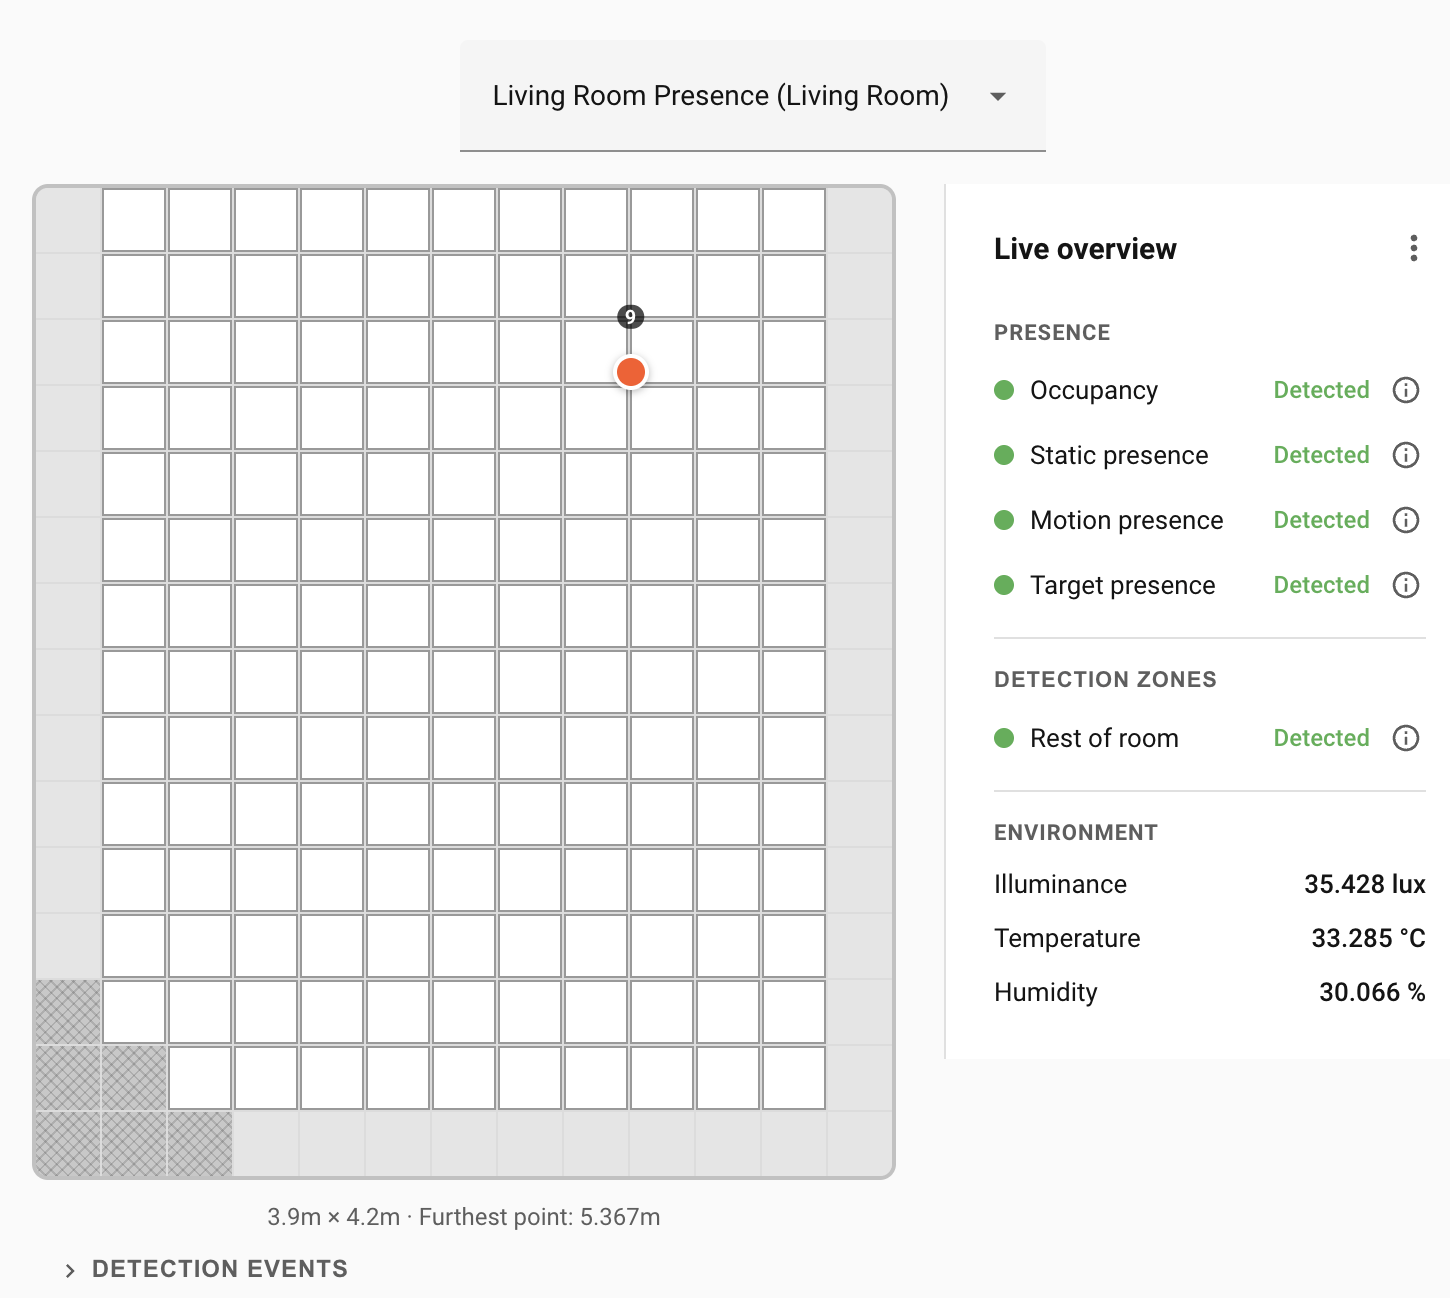
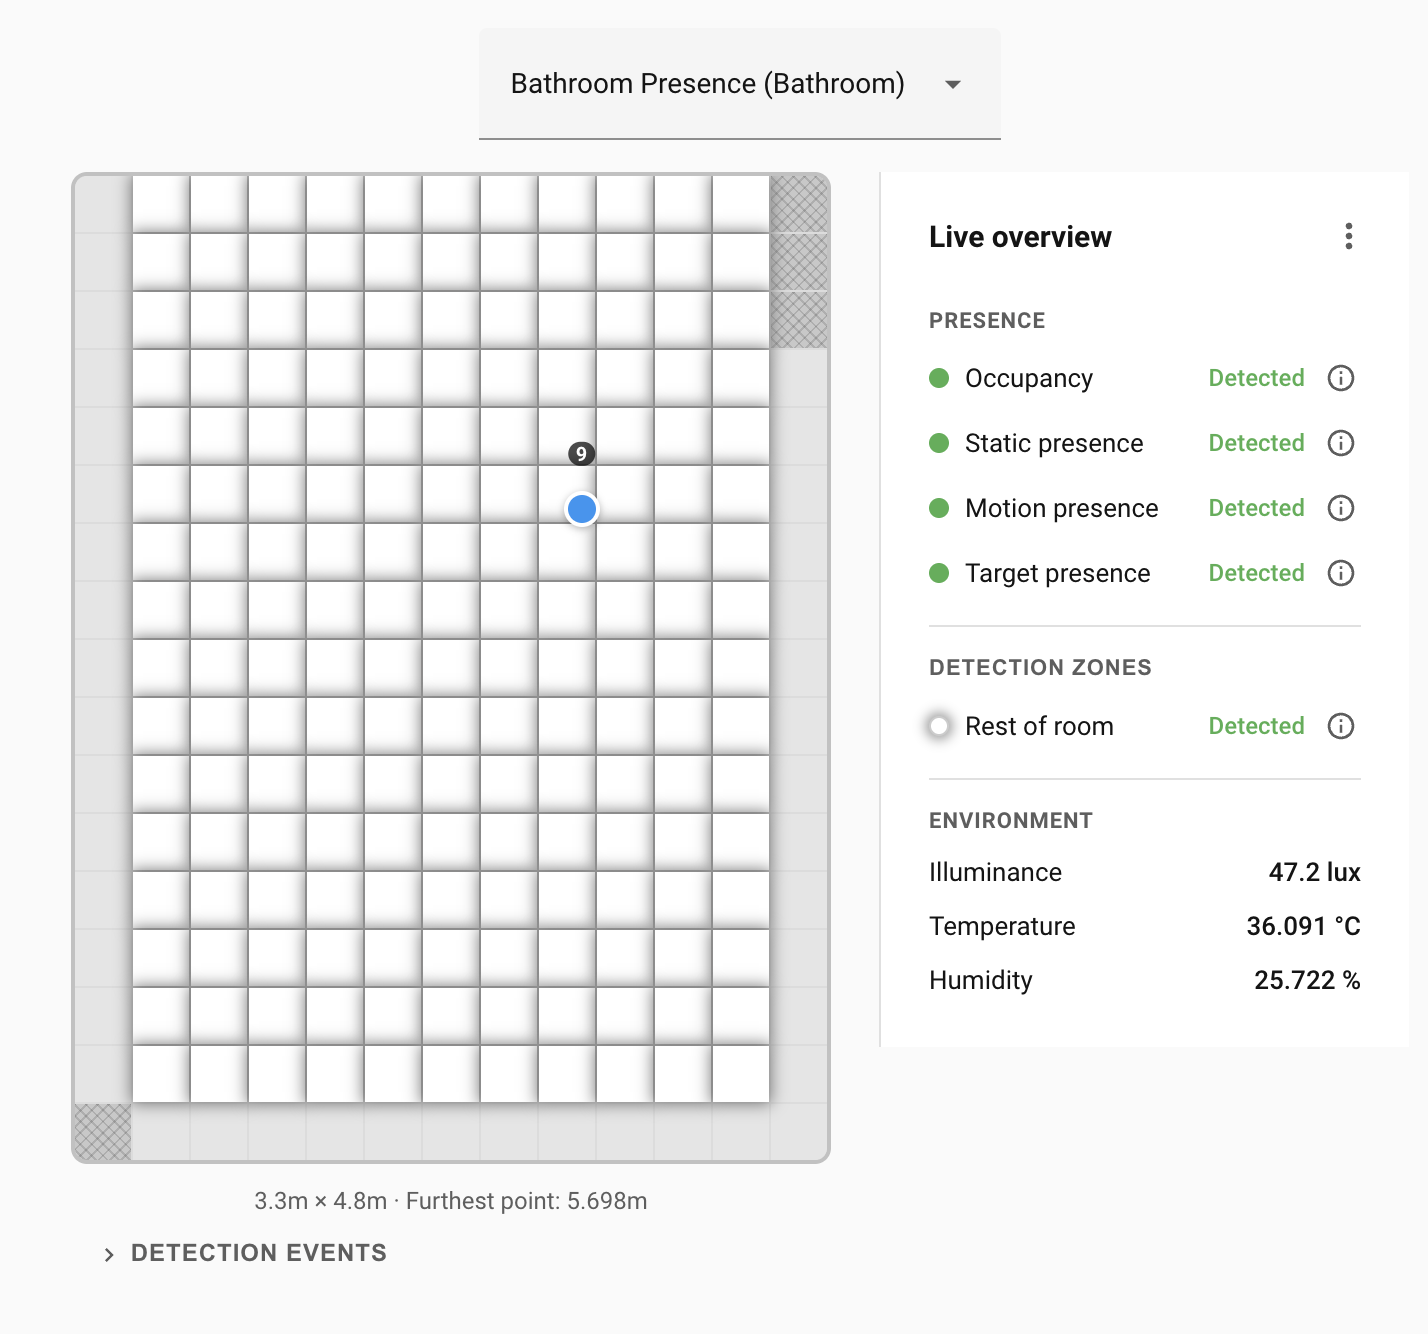
docs: add screenshots and rewrite live overview + detection zones
- Replace remaining screenshot placeholders with real images
  (live overview, detection zones editor, zone types, custom settings)
- Rewrite live-overview.md: sidebar section with presence sensors,
  zone glow, environmental sensors; remove duplicate entity listing
- Rewrite detection-zones.md: explain zone presence algorithm,
  handoff behaviour, per-entity enablement; add column/boundary note
- Update calibrated.png and overview.png with zone-colour screenshots
- Remove flasher progress placeholder from flashing-firmware.md

diff --git a/docs/user-guide/detection-zones.md b/docs/user-guide/detection-zones.md
@@ -9,8 +9,7 @@ Open the Device Configuration tab and switch the sidebar to the **Detection zone
 - A permanent **Room** entry at the top — this is the zone 0 fallback (see below).
 - A list of your named zones. You can have up to 7. The **Add zone** button is disabled once all seven slots are used.
 
-!!! example "Screenshot placeholder"
-    **Zones sidebar with the Room entry at the top and the Add zone button, before any named zones exist.** `zones/empty-list.png`
+![Detection zones editor with the Room entry at the top and the Add zone button, before any named zones exist.](../images/detection-zones/empty-list.png "Detection zones editor with the Room entry at the top and the Add zone button, before any named zones exist.")
 
 ## The Room zone (zone 0)
 
@@ -18,10 +17,13 @@ The first entry in the list, labelled **Room**, is zone 0 — the "rest of room"
 
 Painting the Room zone is different from painting a named zone: you're editing the room **boundary** rather than a zone interior.
 
-- Click a cell **outside** the current room → the cell is added to the room.
-- Click a cell **inside** the current room → the cell is removed from the room (it's no longer considered part of your room at all).
+- Click a grey cell **outside** the current room → the cell is added to the room.
+- Click a white cell **inside** the current room → the cell is removed from the room (it's no longer considered part of your room at all).
 
 Keep the room boundary tight to your real walls. Cells outside the room are ignored by the zone engine; overlays and named zones can't be painted on them either.
+
+!!! note 
+    You can mark cells as **outside** cells even if they are completely surrounded by **inside** cells. Imagine a column in the middle of the room. It is effectively outside the room, even though it is surrounded by the room.
 
 ## Creating and painting a named zone
 
@@ -31,11 +33,7 @@ Once calibration is done and the room boundary looks right, add your first named
 2. On the grid, click-and-drag to paint cells into the zone. The action for the whole drag — paint or erase — is decided by the cell you first press on: if it's already part of the zone, the stroke erases; otherwise the stroke paints.
 3. Release the mouse to commit the stroke.
 
-!!! tip
-    Short strokes are your friend. Each drag is one paint-or-erase decision; if you try to do too much in one stroke and pass through both painted and unpainted cells, you'll have to undo and retry with a shorter stroke.
-
-!!! example "Screenshot placeholder"
-    **Mid-drag painting a zone — cells being added to a new "Sofa" zone.** `zones/painting.png`
+![Mid-drag painting a zone — cells being added to a new "Wash basins" zone.](../images/detection-zones/painting.png "Mid-drag painting a zone — cells being added to a new "Wash basins" zone.")
 
 ## Renaming, recolouring, deleting
 
@@ -45,7 +43,16 @@ Once calibration is done and the room boundary looks right, add your first named
 
 ## Per-zone settings
 
+The LD2450 target tracker can lose a target when there is no movement for a few seconds, such as happens when the target is asleep in bed. To avoid zone presence sensors flapping states every few seconds, you can specify the type of presence you expect for a particular zone. For instance, you would expect:
+
+- a passage to be quick entry and exit.
+- a bed to have long term presence with little movement. 
+- targets to appear out of nowhere in a doorway.
+- targets to reach a sofa zone by transiting an adjacent zone.
+
 Each zone has a **type**, which picks sensible defaults for four behaviour thresholds. For most rooms, one of the built-in types works without further tuning.
+
+![Zone types.](../images/detection-zones/zone-types.png "Zone types.")
 
 - **Default** — balanced defaults. Use for living-room zones, kitchen zones, generic "somebody's in this area" detection.
 - **Bed** — long presence timeout for bedroom monitoring. Designed for someone lying still in bed for extended periods (10-minute presence timeout, slower trigger).
@@ -53,27 +60,32 @@ Each zone has a **type**, which picks sensible defaults for four behaviour thres
 - **Transit** — fast fall-off. Use for hallways and doorways where you want presence to drop quickly after someone has walked through, so it doesn't keep a light on forever.
 - **Custom** — expose the four thresholds below for direct tuning.
 
-The four thresholds (editable in Custom mode):
+![The four settings exposed by the Custom zone type.](../images/detection-zones/custom-settings.png "The four settings exposed by the Custom zone type.")
 
-- **Trigger** — how quickly a target inside the zone counts as "present". Lower = faster trigger.
-- **Renew** — how quickly the presence counter refreshes while the zone stays occupied.
-- **Presence timeout** — how long after the last target leaves before the zone's presence binary sensor drops to off.
-- **Handoff timeout** — the window during which a target disappearing from this zone and reappearing in a neighbouring zone is treated as a handoff, not a new event. Longer = more tolerant of dropouts during handoff, shorter = faster distinction between a handoff and a re-entry.
+## Zone presence and custom settings
 
-!!! example "Screenshot placeholder"
-    **A zone selected with its type dropdown and custom threshold controls visible.** `zones/zone-settings.png`
+The zone presence algorithm works as follows:
+
+- A zone entity starts with state **clear**.
+- If a target appears in a zone with a *signal strength* at least equal to the **Trigger** threshold, then the zone changes to **detected**.
+- If the target disappears from the zone (without being handed off - see below), then the zone moves to an internal **pending** state. The zone entity continues to report **detected**.
+- If a target appears in the zone with a signal strength at least equal to the lower **Renew** threshold, then the zone clears the internal **pending** state and the entity continues to report **detected**.
+- Alternatively, if a target doesn't reappear within **Presence timeout** seconds, then the zone entity switches to the **clear** state.
+
+### Handoff
+
+If a target moves to an adjacent zone (instead of just disappearing) then the zone switches to the internal **pending** state, but then it only waits for **Handoff timeout** seconds before it switches to the **clear** state. In other words, the target has been *handed off* to an adjacent zone.
+
+An exception to this is entrances and exits, where you expect targets to appear out of nowhere. These areas are marked with the **entrance/exit overlay** (see [Overlays](overlays.md)), which causes them to always use the **Handoff timeout** instead of the **Presence timeout**.
 
 ## Entities exposed in Home Assistant
 
-Zones don't create entities on their own — the firmware publishes every possible zone entity up front, and the integration enables or hides them based on your settings. Two **device-level** toggles control what's exposed:
+Each configured zone supports two entities:
 
-- **Zone Presence** — if enabled, Home Assistant sees a `binary_sensor.<device>_zone_N_presence` entity for every active zone slot. The integration renames these to follow the zone: a named zone becomes `Zone <name>` (e.g. `Zone Sofa`), and Zone 0 becomes `Zone Rest of Room`. Zone 0's presence sensor is `on` whenever the sensor sees a target anywhere in the room that isn't inside one of your named zones.
-- **Zone Target Count** — if enabled, Home Assistant sees a `sensor.<device>_zone_N_target_count` entity per active zone slot, with the same `Zone <name>` / `Zone Rest of Room` display-name treatment. Reports the number of tracked targets currently inside that zone.
+- **Zone Presence** — a `binary_sensor.<device>_zone_N_presence` entity. The integration renames these to follow the zone: a named zone becomes `Zone <name>` (e.g. `Zone Sofa`), and Zone 0 becomes `Zone Rest of Room`. Zone 0's presence sensor is `on` whenever the sensor sees a target anywhere in the room that isn't inside one of your named zones.
+- **Zone Target Count** — a `sensor.<device>_zone_N_target_count` entity, with the same `Zone <name>` / `Zone Rest of Room` display-name treatment. Reports the number of tracked targets currently inside that zone.
 
-Both toggles are device-wide, not per-zone. Turning **Zone Presence** on gives you presence sensors for every zone on the device at once; turning it off hides all of them. If you only care about three of your seven zones, you still get all seven presence sensors — just leave them disabled in Home Assistant's entity registry for the ones you don't need.
-
-!!! note
-    The device-level toggles live in the settings area of the panel rather than on individual zones. If you've just created a new zone and its entities aren't appearing in Home Assistant, double-check that Zone Presence (and/or Zone Target Count) is turned on at the device level.
+**Zone Presence** entities are enabled by default, but **Zone Target Count** entities are disabled by default. This can be configured in the [Entities Settings](settings/entities.md).
 
 ## Troubleshooting
 
@@ -81,7 +93,6 @@ Both toggles are device-wide, not per-zone. Turning **Zone Presence** on gives y
 | --- | --- | --- |
 | New zone created in the panel but no `zone_<N>_presence` entity visible in Home Assistant | The device-level **Zone Presence** toggle is off — the entity is disabled in the HA entity registry | Enable **Zone Presence** on the device page. If you want to see the entity in "disabled" state meanwhile, set Home Assistant's entity-registry filter to "Include disabled entities". |
 | Renamed a zone but the HA entity display name still says "Zone N Presence" | Integration hasn't refreshed the entity registry entry yet | Reload the **Everything Presence Pro Grid** integration from Settings → Devices & Services, or reboot the device. |
-| Zone never fires even with obvious presence | Zone has no cells painted, or cells are outside the room boundary | Reopen the zone in the editor and verify cells are painted inside the room. Cells outside the room boundary don't get tracked. |
 | `Zone Rest of Room` is always `on`, even when nobody's in the room | An interference source is inside the room but outside any named zone | Paint an Interference overlay on the problem cells. See [Overlays](overlays.md). |
 | Zone flaps on and off on someone who isn't moving much | Zone type is "Default" — presence timeout is short | Change the zone's type to **Seating** (sofa, chair), **Bed** (bedroom), or **Custom** with a longer Presence timeout. |
 

diff --git a/docs/user-guide/live-overview.md b/docs/user-guide/live-overview.md
@@ -1,82 +1,57 @@
 # Live overview
 
-The live overview is the default content of the Device Configuration tab when you're not in an editor mode. It shows the calibrated grid with your zones, overlays, and furniture in place, and updates live as the sensor tracks targets. This page covers how to read it.
+The live overview is the home page of the Device Configuration tab. It shows the calibrated grid with your zones, overlays, and furniture in place, and updates live as the sensor tracks targets. This page covers how to read it.
 
 ## The grid
 
 The grid is a top-down view of your room after calibration. Each cell is the unit of detection; the zone engine decides presence and target counts in terms of cells.
 
-- Zones are drawn as coloured regions using the colour you picked in the zones editor.
+- White cells indicate cells inside the room that don't belong to any zone, i.e. "Rest of room".
+- Grey cells indicate cells outside the room.
+- Grey cells with cross hatching indicate cells which are outside the FoV (field of view) of the target tracking sensor.
+- Detection zones are drawn as coloured regions using the colour you picked in the zones editor.
 - Overlays show as hatched patterns: Entry/Exit cells use a grey 45° diagonal stripe; Interference cells use a single red -45° diagonal stripe; Suppress cells use red cross-hatching (both diagonals).
 - Furniture sits on top of zones and overlays as a visual layer.
 - Below the grid, the panel shows the room's width × depth plus the distance to the furthest point the sensor can still track (useful for sanity-checking that important corners are inside the LD2450's 6-metre tracking range).
 
-!!! example "Screenshot placeholder"
-    **Live overview showing a dressed room with multiple zones, a couple of overlays, and two live target markers.** `live-overview/populated.png`
+![Live overview showing a room with multiple zones, overlays, furniture icons, and a live target marker.](../images/live-overview/overview.png "Live overview showing a room with multiple zones, overlays, furniture icons, and a live target marker.")
 
 ## Target markers
 
 The LD2450 tracks up to 3 targets at a time. Each is drawn as a dot on the grid:
 
 - **Per-target colours** — each tracked target slot has its own colour from a fixed palette, so you can tell separate targets apart at a glance. The colour identifies the slot, not the movement state; it stays the same as the target moves around.
-- **Optional signal label** — a target may show its signal-strength value as a small label next to the dot.
+- **Signal label** — a target shows its signal-strength value (1..9) as a small label above the dot.
 
-Targets move smoothly because the firmware applies a rolling-median filter before the perspective transform. Jitter you occasionally see is real radar noise, not a bug.
+## Side bar
 
-## Zone occupancy glow
+On the right-hand side bar, you will see live data being fed directly from the sensor. Not all of the corresponding entities are enabled in ESPHome, but they can be enabled in the [**Entity Settings**](settings/entities.md) section.
 
-When a zone is occupied, its colour brightens and gets a subtle glow. This is the most direct visual confirmation that automations are about to fire for that zone — if the glow is on, the corresponding `binary_sensor.<device>_zone_N_presence` entity in Home Assistant is `on`.
+### Presence sensors
 
-A good sanity-check workflow when setting up automations:
+- **Occupancy** — combined presence signal. This is the one you'll usually automate against.
+- **Motion Presence** — the PIR (passive infrared) sensor as a binary sensor. 
+- **Static Presence** — the SEN0609 static-presence sensor. 
+- **Target Presence** - the LD2450 target tracking presence.
 
-1. Walk into the zone.
-2. Look at the live overview — does the zone glow?
-3. Check Home Assistant — is the entity on?
+By default, only the Occupancy entity is enabled under ESPHome.
 
-If step 2 happens but step 3 doesn't, it's usually the Zone Presence device toggle that's off. See [Detection zones](detection-zones.md#entities-exposed-in-home-assistant).
+### Detection zones occupancy glow
 
-## Environmental sensors
+When a zone is occupied, its colour brightens and gets a subtle glow, and the zone is marked as **Detected** in the side bar. This is the most direct visual confirmation that automations are about to fire for that zone — if the glow is on, the corresponding `binary_sensor.<device>_zone_N_presence` entity in Home Assistant is `on`.
 
-The live sidebar next to the grid has an **Environment** section. It's not overlaid on the grid — it's a side panel with live readings from the device's environmental sensors:
+Entities for all configured zones are enabled by default under ESPHome.
 
-- **Illuminance** (lux)
+### Environmental sensors
+
+In the  **Environment** section, you can see the four environmental sensors:
+
+- **Illuminance** (lux) 
 - **Temperature** (°C)
 - **Humidity** (%)
-- **CO2** (ppm) — only shown if the CO2 entity has been enabled on the device in Home Assistant
+- **CO2** (ppm) — the CO2 sensor is an optional extra and may not be installed on your device. You will only see the CO2 reading on the live overview if the chip is present and producing readings.
 
-These come from the firmware's environmental entities; the live overview just shows them in one place. If a value is missing, the corresponding entity is disabled on the device page.
-
-!!! example "Screenshot placeholder"
-    **Close-up of the Environment section in the live sidebar.** `live-overview/environment-sidebar.png`
-
-## What you get by default
-
-Once the device is connected and calibrated, Home Assistant has these entities ready. Some are enabled out of the box; others light up as you configure zones or flip the relevant device toggle.
-
-**Diagnostic**
-
-- **Firmware Version** — the firmware build currently running on the device.
-- **Firmware Update** — the ESPHome update entity that handles OTA upgrades.
-
-**Environmental**
-
-- **Illuminance** (lux), **Temperature** (°C), **Humidity** (%) — enabled by default.
-- **CO2** (ppm) — only if the CO2 module is fitted. Disabled by default.
-
-**Presence**
-
-- **Occupancy** — combined presence signal. Enabled by default. This is the one you'll usually automate against.
-- **Motion Presence** — the PIR (passive infrared) sensor as a binary sensor. Disabled by default.
-- **Static Presence** — the SEN0609 static-presence sensor. Disabled by default.
-
-**Zones**
-
-- **Zone 0 Presence** through **Zone 7 Presence** — one per zone.
-- **Zone 0 Target Count** through **Zone 7 Target Count** — one per zone.
-
-Zone pairs stay disabled until you paint the zone and enable its toggles in settings. **Zone 0** is the "rest of room" fallback — any target outside a named zone.
-
-See [Settings → Entities](settings/entities.md) for the full list and how to enable or rename individual entities.
+The **Illuminance**, **Temperature**, and **Humidity** entities are enabled by default. The **CO2** entity (and the related **Calibrate CO2 button**) is disabled by default.
 
 ## Connection and firmware-status banners
 
@@ -91,9 +66,7 @@ When something's wrong, the live grid is replaced by a banner rather than being 
 | --- | --- | --- |
 | Grid is blank or shows no sensor data | Device is offline | Check **Settings → Devices & Services → ESPHome** — the device should be listed and marked online. |
 | Targets jump around or drift outside walls | Calibration is off | Re-run the calibration wizard. See [Calibration](calibration.md). |
-| Zone colour never highlights, even when someone's in the zone | Zone Presence toggle is off at the device level, or the zone has zero cells painted | Enable **Zone Presence** on the device page; check the zone has cells in the [Detection zones](detection-zones.md) editor. |
 | Target stuck on a fixed cell with nobody there | Interference source at that cell (fan, curtain, reflective surface) | Add an Interference overlay at that cell. If it's still problematic, escalate to Suppress. See [Overlays](overlays.md). |
-| Environmental sensor values missing from the sidebar | Corresponding entity is disabled on the device page | Enable the entity in Home Assistant: go to the device page → entities → enable the missing one. CO2 in particular is disabled by default. |
 
 See also: the [central Troubleshooting](troubleshooting.md) page for conceptual FAQ and how to open a GitHub issue.
 

diff --git a/docs/user-guide/flashing-firmware.md b/docs/user-guide/flashing-firmware.md
@@ -31,9 +31,6 @@ This page covers flashing Everything Presence Pro Grid firmware onto your device
 !!! warning
     If the browser shows no ports when you click Connect, the cable is the most common cause. Swap for a known-good data cable before troubleshooting the device.
 
-!!! example "Screenshot placeholder"
-    **Flasher mid-flash — progress indicator showing "Flashing firmware…".** `firmware/flasher-progress.png`
-
 ## Add the device to ESPHome
 
 The Wi-Fi flashing flow usually adds the device to Home Assistant automatically via ESPHome. If not — or if you flashed the Ethernet variant — add it manually:
